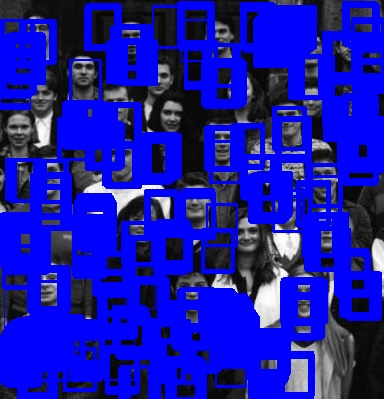
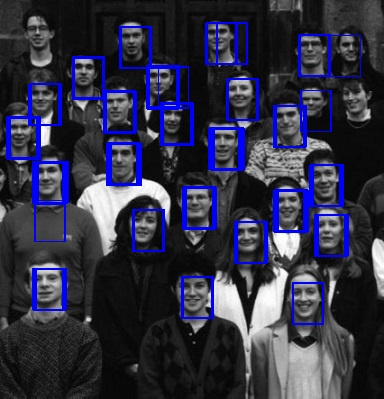
fixed the numbers

diff --git a/HW5/q1/matchFaces.py b/HW5/q1/matchFaces.py
@@ -123,14 +123,14 @@ display(image, pattern)
 ############# Students #############
 
 image_scaled = scale_up(image, 1.43)
-image_scaled = cv2.GaussianBlur(image_scaled, (17, 17), 9) + 128
+image_scaled = image_scaled - cv2.GaussianBlur(image_scaled, (17, 17), 9) + 128
 pattern_scaled =  scale_down(pattern, 0.82)
-pattern_scaled = cv2.GaussianBlur(pattern_scaled, (27, 27), 4) + 128
+pattern_scaled = pattern_scaled - cv2.GaussianBlur(pattern_scaled, (27, 27), 4) + 128
 
 display(image_scaled, pattern_scaled)
 
 ncc = ncc_2d(image_scaled, pattern_scaled)
-real_matches = (Thresholding(ncc, 0.441)) * (1 / 1.43)
+real_matches = 	Thresholding(ncc, 0.441) * (1 / 1.43)
 
 ######### DONT CHANGE THE NEXT TWO LINES #########
 real_matches[:,0] += pattern_scaled.shape[0] // 2			# if pattern was not scaled, replace this with "pattern"
@@ -154,7 +154,7 @@ pattern_scaled =  scale_down(pattern, 0.3)
 display(image_scaled, pattern_scaled)
 
 ncc = ncc_2d(image_scaled, pattern_scaled)
-real_matches = (Thresholding(ncc, 0.45)) * (1 / 1.35)
+real_matches = Thresholding(ncc, 0.45) * (1 / 1.35)
 
 ######### DONT CHANGE THE NEXT TWO LINES #########
 real_matches[:,0] += pattern_scaled.shape[0] // 2			# if pattern was not scaled, replace this with "pattern"
